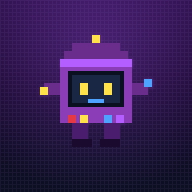
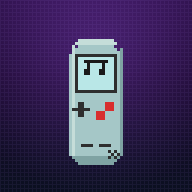
Replace robot pocket buddy with Game Boy music mascot
Swap the anthropomorphic purple boot/PWA character for a mint
handheld Game Boy icon with beamed eighth notes on the screen,
matching the provided music icon reference. Regenerate favicon
and PWA icons from the shared pixel rects and bump the SW cache.

Changed region(s): [[0.1875, 0.1562, 0.8125, 0.875]]

diff --git a/index.html b/index.html
@@ -96,40 +96,41 @@
       <span class="boot-note boot-note-2">♫</span>
       <span class="boot-note boot-note-3">♪</span>
       <div class="boot-pixel-ground"></div>
-      <svg class="boot-pixel-char" viewBox="0 0 32 32" xmlns="http://www.w3.org/2000/svg" shape-rendering="crispEdges">
-        <!-- Atomic Purple GBC pocket buddy -->
-        <rect x="10" y="2" width="12" height="2" fill="#6b2d8b"/>
-        <rect x="8" y="4" width="16" height="2" fill="#6b2d8b"/>
-        <rect x="7" y="6" width="18" height="16" fill="#8b3db8"/>
-        <rect x="7" y="6" width="18" height="2" fill="#b45eff"/>
-        <rect x="9" y="9" width="14" height="9" fill="#0b1020"/>
-        <rect x="10" y="10" width="12" height="7" fill="#1a2744"/>
-        <!-- eyes -->
-        <rect class="eye eye-l" x="12" y="12" width="2" height="3" fill="#ffe14a"/>
-        <rect class="eye eye-r" x="18" y="12" width="2" height="3" fill="#ffe14a"/>
-        <!-- smile -->
-        <rect x="14" y="16" width="4" height="1" fill="#4da3ff"/>
-        <!-- ABXY-ish face buttons -->
-        <rect x="9" y="20" width="2" height="2" fill="#e63946"/>
-        <rect x="12" y="20" width="2" height="2" fill="#ffe14a"/>
-        <rect x="18" y="20" width="2" height="2" fill="#4da3ff"/>
-        <rect x="21" y="20" width="2" height="2" fill="#b45eff"/>
-        <!-- arms -->
-        <g class="arm-l">
-          <rect x="3" y="12" width="4" height="3" fill="#6b2d8b"/>
-          <rect x="2" y="13" width="2" height="2" fill="#ffe14a"/>
-        </g>
-        <g class="arm-r">
-          <rect x="25" y="12" width="4" height="3" fill="#6b2d8b"/>
-          <rect x="28" y="11" width="2" height="2" fill="#4da3ff"/>
-        </g>
-        <!-- legs -->
-        <rect x="10" y="22" width="4" height="4" fill="#4a1d6e"/>
-        <rect x="18" y="22" width="4" height="4" fill="#4a1d6e"/>
-        <rect x="10" y="26" width="5" height="2" fill="#1a0a2e"/>
-        <rect x="17" y="26" width="5" height="2" fill="#1a0a2e"/>
-        <!-- antenna note -->
-        <rect x="15" y="0" width="2" height="2" fill="#ffe14a"/>
+      <svg class="boot-pixel-char" viewBox="0 0 32 44" xmlns="http://www.w3.org/2000/svg" shape-rendering="crispEdges">
+        <!-- Game Boy music icon / mascot -->
+        <rect x="10" y="4" width="12" height="1" fill="#A5C7C7"/>
+        <rect x="9" y="5" width="14" height="1" fill="#A5C7C7"/>
+        <rect x="8" y="6" width="16" height="1" fill="#A5C7C7"/>
+        <rect x="7" y="7" width="18" height="34" fill="#A5C7C7"/>
+        <rect x="8" y="41" width="16" height="1" fill="#A5C7C7"/>
+        <rect x="9" y="42" width="14" height="1" fill="#A5C7C7"/>
+        <rect x="10" y="43" width="12" height="1" fill="#A5C7C7"/>
+        <rect x="24" y="5" width="1" height="36" fill="#7FA3A3"/>
+        <rect x="8" y="41" width="16" height="1" fill="#7FA3A3"/>
+        <rect x="9" y="42" width="14" height="1" fill="#7FA3A3"/>
+        <rect x="10" y="43" width="12" height="1" fill="#7FA3A3"/>
+        <rect x="10" y="2" width="12" height="1" fill="#C5DDD9"/>
+        <rect x="9" y="3" width="14" height="1" fill="#C5DDD9"/>
+        <rect x="8" y="4" width="1" height="37" fill="#C5DDD9"/>
+        <rect x="9" y="7" width="14" height="13" fill="#2E2E2E"/>
+        <rect x="10" y="8" width="12" height="11" fill="#B9E7E7"/>
+        <rect x="12" y="9" width="8" height="1" fill="#1A1A1A"/>
+        <rect x="13" y="10" width="1" height="2" fill="#1A1A1A"/>
+        <rect x="18" y="10" width="1" height="2" fill="#1A1A1A"/>
+        <rect x="12" y="12" width="2" height="2" fill="#1A1A1A"/>
+        <rect x="17" y="12" width="2" height="2" fill="#1A1A1A"/>
+        <rect x="10" y="23" width="2" height="5" fill="#2E2E2E"/>
+        <rect x="8" y="25" width="6" height="1" fill="#2E2E2E"/>
+        <rect x="19" y="23" width="3" height="3" fill="#D82E2E"/>
+        <rect x="16" y="26" width="3" height="3" fill="#D82E2E"/>
+        <rect x="11" y="37" width="4" height="1" fill="#2E2E2E"/>
+        <rect x="17" y="37" width="4" height="1" fill="#2E2E2E"/>
+        <rect x="20" y="39" width="1" height="1" fill="#2E2E2E"/>
+        <rect x="22" y="39" width="1" height="1" fill="#2E2E2E"/>
+        <rect x="21" y="40" width="1" height="1" fill="#2E2E2E"/>
+        <rect x="23" y="40" width="1" height="1" fill="#2E2E2E"/>
+        <rect x="20" y="41" width="1" height="1" fill="#2E2E2E"/>
+        <rect x="22" y="41" width="1" height="1" fill="#2E2E2E"/>
       </svg>
     </div>
     <div class="boot-splash-brand">musi</div>

diff --git a/css/boot-splash.css b/css/boot-splash.css
@@ -95,14 +95,14 @@
 }
 
 .boot-pixel-char {
-  width: 112px;
-  height: 112px;
+  width: 102px;
+  height: auto;
   image-rendering: pixelated;
   image-rendering: crisp-edges;
   transform-origin: 50% 85%;
   /* One gentle idle motion only */
   animation: bootCharIdle 1.8s ease-in-out infinite;
-  filter: drop-shadow(0 0 14px rgba(180, 94, 255, 0.3));
+  filter: drop-shadow(0 4px 10px rgba(0, 0, 0, 0.35)) drop-shadow(0 0 12px rgba(165, 199, 199, 0.2));
 }
 
 @keyframes bootCharIdle {

diff --git a/service-worker.js b/service-worker.js
@@ -1,5 +1,5 @@
 /* Musi service worker — offline app shell caching for PWA installs. */
-const CACHE_VERSION = "v140-gp-tempo-open";
+const CACHE_VERSION = "v141-music-mascot";
 const CACHE_NAME = `musi-${CACHE_VERSION}`;
 
 /* Core files that make up the installable app shell. Paths are relative to the

diff --git a/scripts/generate-icons.py b/scripts/generate-icons.py
@@ -1,5 +1,5 @@
 #!/usr/bin/env python3
-"""Generate Musi PWA icons — Atomic Purple GBC pocket buddy (matches boot splash)."""
+"""Generate Musi PWA icons — mint Game Boy music icon (matches boot splash)."""
 
 from __future__ import annotations
 
@@ -10,33 +10,50 @@ from PIL import Image, ImageDraw, ImageFilter
 
 ROOT = Path(__file__).resolve().parents[1]
 
-# Pixel rects from index.html boot-pixel-char (viewBox 0 0 32 32)
+# Pixel rects from index.html boot-pixel-char (viewBox 0 0 32 44)
 CHAR_RECTS = [
-    (10, 2, 12, 2, "#6b2d8b"),
-    (8, 4, 16, 2, "#6b2d8b"),
-    (7, 6, 18, 16, "#8b3db8"),
-    (7, 6, 18, 2, "#b45eff"),
-    (9, 9, 14, 9, "#0b1020"),
-    (10, 10, 12, 7, "#1a2744"),
-    (12, 12, 2, 3, "#ffe14a"),
-    (18, 12, 2, 3, "#ffe14a"),
-    (14, 16, 4, 1, "#4da3ff"),
-    (9, 20, 2, 2, "#e63946"),
-    (12, 20, 2, 2, "#ffe14a"),
-    (18, 20, 2, 2, "#4da3ff"),
-    (21, 20, 2, 2, "#b45eff"),
-    (3, 12, 4, 3, "#6b2d8b"),
-    (2, 13, 2, 2, "#ffe14a"),
-    (25, 12, 4, 3, "#6b2d8b"),
-    (28, 11, 2, 2, "#4da3ff"),
-    (10, 22, 4, 4, "#4a1d6e"),
-    (18, 22, 4, 4, "#4a1d6e"),
-    (10, 26, 5, 2, "#1a0a2e"),
-    (17, 26, 5, 2, "#1a0a2e"),
-    (15, 0, 2, 2, "#ffe14a"),
+    (10, 4, 12, 1, "#A5C7C7"),
+    (9, 5, 14, 1, "#A5C7C7"),
+    (8, 6, 16, 1, "#A5C7C7"),
+    (7, 7, 18, 34, "#A5C7C7"),
+    (8, 41, 16, 1, "#A5C7C7"),
+    (9, 42, 14, 1, "#A5C7C7"),
+    (10, 43, 12, 1, "#A5C7C7"),
+    (24, 5, 1, 36, "#7FA3A3"),
+    (8, 41, 16, 1, "#7FA3A3"),
+    (9, 42, 14, 1, "#7FA3A3"),
+    (10, 43, 12, 1, "#7FA3A3"),
+    (10, 2, 12, 1, "#C5DDD9"),
+    (9, 3, 14, 1, "#C5DDD9"),
+    (8, 4, 1, 37, "#C5DDD9"),
+    (9, 7, 14, 13, "#2E2E2E"),
+    (10, 8, 12, 11, "#B9E7E7"),
+    (12, 9, 8, 1, "#1A1A1A"),
+    (13, 10, 1, 2, "#1A1A1A"),
+    (18, 10, 1, 2, "#1A1A1A"),
+    (12, 12, 2, 2, "#1A1A1A"),
+    (17, 12, 2, 2, "#1A1A1A"),
+    (10, 23, 2, 5, "#2E2E2E"),
+    (8, 25, 6, 1, "#2E2E2E"),
+    (19, 23, 3, 3, "#D82E2E"),
+    (16, 26, 3, 3, "#D82E2E"),
+    (11, 37, 4, 1, "#2E2E2E"),
+    (17, 37, 4, 1, "#2E2E2E"),
+    (20, 39, 1, 1, "#2E2E2E"),
+    (22, 39, 1, 1, "#2E2E2E"),
+    (21, 40, 1, 1, "#2E2E2E"),
+    (23, 40, 1, 1, "#2E2E2E"),
+    (20, 41, 1, 1, "#2E2E2E"),
+    (22, 41, 1, 1, "#2E2E2E"),
 ]
 
-GRID = 32
+GRID_W = 32
+GRID_H = 44
+
+GLOW_COLORS = {
+    "#D82E2E": (216, 46, 46, 48),
+    "#B9E7E7": (120, 210, 210, 36),
+}
 
 
 def hex_rgb(color: str) -> tuple[int, int, int]:
@@ -70,7 +87,6 @@ def draw_background(size: int, *, maskable: bool = False) -> Image.Image:
             base = lerp_color(mid, bottom, (t - 0.45) / 0.55)
 
         for x in range(size):
-            # Radial purple wash from upper center
             dx = (x - size * 0.5) / size
             dy = (y - size * 0.28) / size
             dist = math.sqrt(dx * dx + dy * dy)
@@ -82,7 +98,6 @@ def draw_background(size: int, *, maskable: bool = False) -> Image.Image:
             px[x, y] = color
 
     if not maskable:
-        # Subtle pixel grid (LCD shell texture)
         grid = Image.new("RGBA", (size, size), (0, 0, 0, 0))
         gpx = grid.load()
         step = max(4, size // 64)
@@ -111,12 +126,13 @@ def draw_character(
         glow_draw = ImageDraw.Draw(glow_layer)
         pad = max(2, scale // 2)
         for x, y, w, h, color in CHAR_RECTS:
-            if color in ("#ffe14a", "#b45eff", "#4da3ff"):
+            accent = GLOW_COLORS.get(color)
+            if accent:
                 gx = offset_x + x * scale - pad
                 gy = offset_y + y * scale - pad
                 gw = w * scale + pad * 2
                 gh = h * scale + pad * 2
-                glow_draw.rectangle([gx, gy, gx + gw, gy + gh], fill=(180, 94, 255, 40))
+                glow_draw.rectangle([gx, gy, gx + gw, gy + gh], fill=accent)
         glow_layer = glow_layer.filter(ImageFilter.GaussianBlur(radius=max(2, scale // 2)))
         img.paste(Image.alpha_composite(img.convert("RGBA"), glow_layer).convert("RGB"))
 
@@ -132,11 +148,10 @@ def draw_character(
 def render_icon(size: int, *, maskable: bool = False) -> Image.Image:
     img = draw_background(size, maskable=maskable)
 
-    # Maskable: keep buddy inside ~72% safe zone; standard: ~78%
     fill = 0.72 if maskable else 0.78
-    scale = max(1, int((size * fill) / GRID))
-    char_w = GRID * scale
-    char_h = GRID * scale
+    scale = max(1, int((size * fill) / max(GRID_W, GRID_H)))
+    char_w = GRID_W * scale
+    char_h = GRID_H * scale
     offset_x = (size - char_w) // 2
     offset_y = (size - char_h) // 2 + int(size * 0.02)
 
